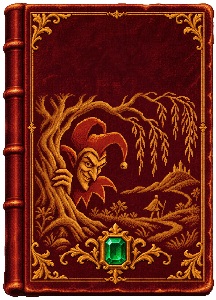
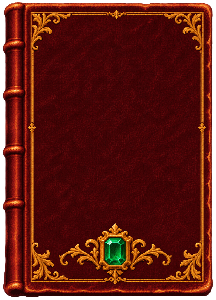
fix(ui): polish the book cover and entry screen

diff --git a/src/components/PixelBook.vue b/src/components/PixelBook.vue
@@ -2,6 +2,8 @@
   <canvas ref="canvas" class="pixel-book" width="640" height="360" tabindex="0" role="dialog" aria-modal="true"
     :aria-label="canvasLabel" @pointermove="move" @pointerleave="leave" @pointerdown="press"
     @pointerup="release" @pointercancel="release" @keydown="key" @paste="paste" @wheel.prevent="scroll" />
+  <canvas v-show="showCredit" ref="credit" class="book-studio-credit" :width="STUDIO_MARK.w" :height="STUDIO_MARK.h"
+    :style="creditStyle" role="img" aria-label="AkulaFlow" />
 </template>
 
 <script setup lang="ts">
@@ -36,6 +38,11 @@ const emit = defineEmits<{
 }>();
 
 const canvas = ref<HTMLCanvasElement>();
+const credit = ref<HTMLCanvasElement>();
+const showCredit = ref(false);
+const creditStyle = ref({ top: '0px', width: '0px' });
+const STUDIO_MARK = { x: 13, y: 74, w: 300, h: 54 };
+const CREDIT_TOP = 342;
 const canvasLabel = ref('');
 const reduced = matchMedia('(prefers-reduced-motion: reduce)');
 const pages: Page[] = ['main', 'story', 'save', 'load', 'settings', 'sound', 'dev'];
@@ -485,25 +492,47 @@ function paintPages() {
 function coverImage(r: Rect) {
   pixels(ctx, coverFace, r);
 }
+function coverButton(id: string, label: string, area: Rect, action: () => void, primary = false) {
+  const { x, y, w, h } = area;
+  const hot = !props.busy && (hover === id || focus === id);
+  const fill = ctx.createLinearGradient(x, y, x, y + h);
+  fill.addColorStop(0, primary ? hot ? '#476457' : '#344d42' : hot ? '#584039' : '#48302d');
+  fill.addColorStop(1, primary ? '#202e29' : '#2c1b1b');
+  ctx.fillStyle = '#140909a8';
+  ctx.fillRect(x + 4, y + 5, w - 7, h);
+  ctx.beginPath();
+  ctx.moveTo(x + 5, y + .5);
+  ctx.lineTo(x + w - 5, y + .5);
+  ctx.lineTo(x + w - .5, y + 5);
+  ctx.lineTo(x + w - .5, y + h - 5);
+  ctx.lineTo(x + w - 5, y + h - .5);
+  ctx.lineTo(x + 5, y + h - .5);
+  ctx.lineTo(x + .5, y + h - 5);
+  ctx.lineTo(x + .5, y + 5);
+  ctx.closePath();
+  ctx.fillStyle = fill;
+  ctx.fill();
+  ctx.strokeStyle = hot ? '#f0ce8b' : '#b88752';
+  ctx.stroke();
+  ctx.strokeStyle = '#c1945f50';
+  ctx.strokeRect(x + 4.5, y + 4.5, w - 9, h - 9);
+  sparkle(ctx, x + 11, y + h / 2, hot ? 2 : 1, '#bd8c50');
+  text(ctx, label, x + w / 2 + 4, y + h / 2, 11, props.busy ? MUTED : hot ? '#ffedbe' : FOIL, 'center', menuFont, w - 28);
+  if (!props.busy) add(id, label, area, action);
+}
 function cover() {
-  bookShadow(ctx, { x: COVER.x + 7, y: COVER.y + 7, w: COVER.w - 15, h: COVER.h - 24 });
+  bookShadow(ctx, { x: COVER.x + 7, y: COVER.y + 4, w: COVER.w - 15, h: COVER.h - 13 });
   coverImage(COVER);
-  const open = { x: COVER.x + 16, y: COVER.y + 11, w: COVER.w - 25, h: COVER.h - 13 };
-  const label = t('Open the book');
-  add('cover', label, open, startCover);
-  const hot = hover === 'cover' || focus === 'cover';
-  ctx.fillStyle = '#352118e8'; ctx.fillRect(256, 299, 135, 18);
-  text(ctx, label, 324, 308, 11, hot ? '#ffe6ae' : FOIL, 'center', menuFont, 125);
-  if (!reduced.matches && time % 3800 < 300) sparkle(ctx, 332, 267, 2, '#a9e1a1');
-  if (props.latestSave && !props.setup) {
-    const r = { x: 449, y: 270, w: 134, h: 26 };
-    frame(ctx, r, hover === 'continue' || focus === 'continue');
-    text(ctx, t('Continue journey'), 516, 283, 11, FOIL, 'center', menuFont, 125);
-    add('continue', t('Continue journey'), r, () => emit('continue'));
+  if (!reduced.matches && time % 3800 < 300) sparkle(ctx, 331, 231, 2, '#a9e1a1');
+  const resume = props.latestSave && !props.setup;
+  coverButton('cover', t('Open the book'), { x: resume ? 150 : 230, y: 292, w: resume ? 163 : 180, h: 27 }, startCover, true);
+  if (resume) {
+    coverButton('continue', t('Continue journey'), { x: 327, y: 292, w: 163, h: 27 }, () => emit('continue'));
   }
-  pixels(ctx, art!.studio, { x: 577, y: 316, w: 48, h: 30 });
-  text(ctx, t('Original tale © 1992 Westwood Studios'), 320, 346, 10, '#d3af84', 'center', textFont, 335);
-  if (props.message || props.busy) text(ctx, t(props.message || 'Opening your saved chapter…'), 320, 325, 11, FOIL, 'center', textFont, 415);
+  text(ctx, t('Original tale © 1992 Westwood Studios'), 320, 331, 10, '#d3af84', 'center', textFont, 335);
+  if (props.message || props.busy) {
+    text(ctx, t(props.message || 'Opening your saved chapter…'), 514, 272, 10, FOIL, 'center', textFont, 220);
+  }
 }
 function openCover(progress: number) {
   if (progress >= 1) {
@@ -578,6 +607,7 @@ function paint(now: number) {
   }
   const motion = reduced.matches ? 0 : time;
   desk(ctx, art, motion, view);
+  showCredit.value = !props.options && coverAt === null && !props.portrait;
   if (props.portrait) {
     const panel = { x: 139, y: 96, w: 362, h: 168 };
     frame(ctx, panel, true);
@@ -633,6 +663,9 @@ async function prepare() {
     const [loaded] = await Promise.all([loadBookArt(), document.fonts.load('11px Kyrandia'), document.fonts.load('21px Germanica')]);
     if (!alive) return;
     coverFace = coverBoard(loaded);
+    const studio = credit.value?.getContext('2d');
+    const { x, y, w, h } = STUDIO_MARK;
+    studio?.drawImage(loaded.studio, x, y, w, h, 0, 0, w, h);
     bookmarks = bookmarkPalette(loaded.bookmark);
     art = loaded;
     mountTime = performance.now();
@@ -646,6 +679,11 @@ onMounted(() => {
     if (!scale) return;
     const w = target.clientWidth / scale, h = target.clientHeight / scale;
     view = { x: (WIDTH - w) / 2, y: (HEIGHT - h) / 2, w, h };
+    const creditTop = (CREDIT_TOP - view.y) * scale;
+    creditStyle.value = {
+      top: `${Math.round(creditTop)}px`,
+      width: `${Math.floor(Math.min(STUDIO_MARK.w, Math.max(0, target.clientHeight - creditTop - 5) * STUDIO_MARK.w / STUDIO_MARK.h))}px`,
+    };
     const extra = Math.min(65, Math.max(0, h - HEIGHT) * .78);
     book = { ...SPREAD, y: SPREAD.y - extra / 2, h: SPREAD.h + extra };
     ctx = surface(target, view);
@@ -769,5 +807,15 @@ function key(event: KeyboardEvent) {
   cursor: url('/assets/cursors/book-pointer.svg') 2 2, auto;
   touch-action: none;
   outline: none;
+}
+.book-studio-credit {
+  position: fixed;
+  left: 50%;
+  z-index: 21;
+  transform: translateX(-50%);
+  height: auto;
+  max-width: calc(100% - 24px);
+  image-rendering: auto;
+  pointer-events: none;
 }
 </style>

diff --git a/src/components/pixelBookPaint.ts b/src/components/pixelBookPaint.ts
@@ -6,16 +6,16 @@ import { ROOM_ART } from '../engine/core/constants';
 export const WIDTH = 640, HEIGHT = 360;
 export const BOOK_RESOLUTION = 1.5;
 export const SPREAD = { x: 49, y: 25, w: 542, h: 310 };
-export const COVER = { x: 204, y: 24, w: 232, h: 304 };
+export const COVER = { x: 213, y: 13, w: 214, h: 270 };
 export const ILLUSTRATION = { x: 339, y: 112, w: 192, h: 131 };
 export const RUBRIC = '#e5b97a', INK = '#e9d0ae', MUTED = '#b79674', FOIL = '#f1d198';
 export type Rect = { x: number; y: number; w: number; h: number };
-export type Art = Record<'desk' | 'spread' | 'cover' | 'retail' | 'bookmark' | 'modern' | 'classic' | 'studio', HTMLImageElement>;
+export type Art = Record<'desk' | 'spread' | 'cover' | 'retail' | 'title' | 'bookmark' | 'modern' | 'classic' | 'studio', HTMLImageElement>;
 type Point = { x: number; y: number };
 
 export async function loadBookArt(): Promise<Art> {
   const files = {
-    desk: 'pixel-book/desk.webp', spread: 'pixel-book/spread.webp', cover: 'pixel-book/cover.webp', retail: 'book-cover.webp',
+    desk: 'pixel-book/desk.webp', spread: 'pixel-book/spread.webp', cover: 'pixel-book/cover.webp', retail: 'book-cover.webp', title: 'kyrandia-title.webp',
     bookmark: 'pixel-book/bookmark.webp',
     modern: 'controls-modern.webp', classic: 'controls-classic.webp', studio: 'akulaflow-studio.webp',
   };
@@ -44,14 +44,13 @@ export function coverBoard(art: Art) {
   const ctx = canvas.getContext('2d')!;
   ctx.imageSmoothingEnabled = false;
   ctx.drawImage(art.cover, 0, 0);
-  ctx.drawImage(art.cover, 47, 37, 138, 40, 36, 36, 165, 177);
-  ctx.fillStyle = '#28140e';
-  ctx.fillRect(36, 36, 165, 165);
-  ctx.drawImage(art.retail, 73, 145, 365, 365, 39, 39, 159, 159);
-  ctx.fillStyle = '#6b280f28';
-  ctx.fillRect(39, 39, 159, 159);
-  ctx.strokeStyle = '#b38349';
-  ctx.strokeRect(36.5, 36.5, 164, 164);
+  ctx.drawImage(art.title, 41, 35, 154, 51);
+  const panel = { x: 51, y: 100, w: 134, h: 96 };
+  // The retail title is on the plate above. Use the illustration below its printed title block.
+  frame(ctx, panel, true);
+  ctx.drawImage(art.retail, 74, 249, 362, 259, panel.x, panel.y, panel.w, panel.h);
+  ctx.fillStyle = '#4b160b18';
+  ctx.fillRect(panel.x, panel.y, panel.w, panel.h);
   return canvas;
 }
 
@@ -190,7 +189,7 @@ export function sparkle(ctx: CanvasRenderingContext2D, x: number, y: number, rad
 
 export function desk(ctx: CanvasRenderingContext2D, art: Art, time: number, view: Rect) {
   ctx.drawImage(art.desk, view.x - 1, view.y - 1, view.w + 2, view.h + 2);
-  const fx = Math.round(view.x + 23 * view.w / WIDTH), fy = Math.round(view.y + 26 * view.h / HEIGHT);
+  const fx = Math.round(view.x + 29 * view.w / WIDTH), fy = Math.round(view.y + 48 * view.h / HEIGHT);
   const flame = Math.floor(time / 90);
   const flicker = Math.sin(flame * .85) + Math.sin(flame * 1.89);
   const glow = ctx.createRadialGradient(fx, fy, 3, fx, fy, 124);
